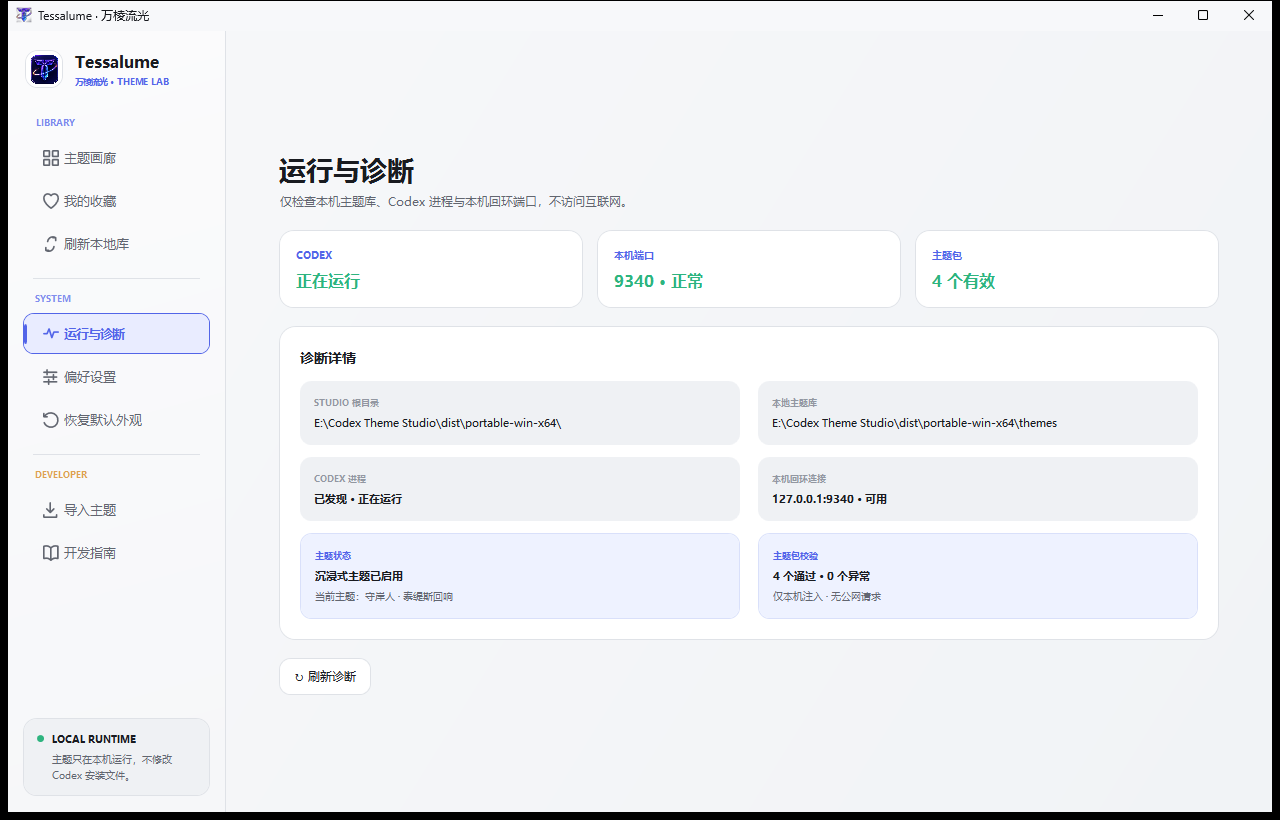
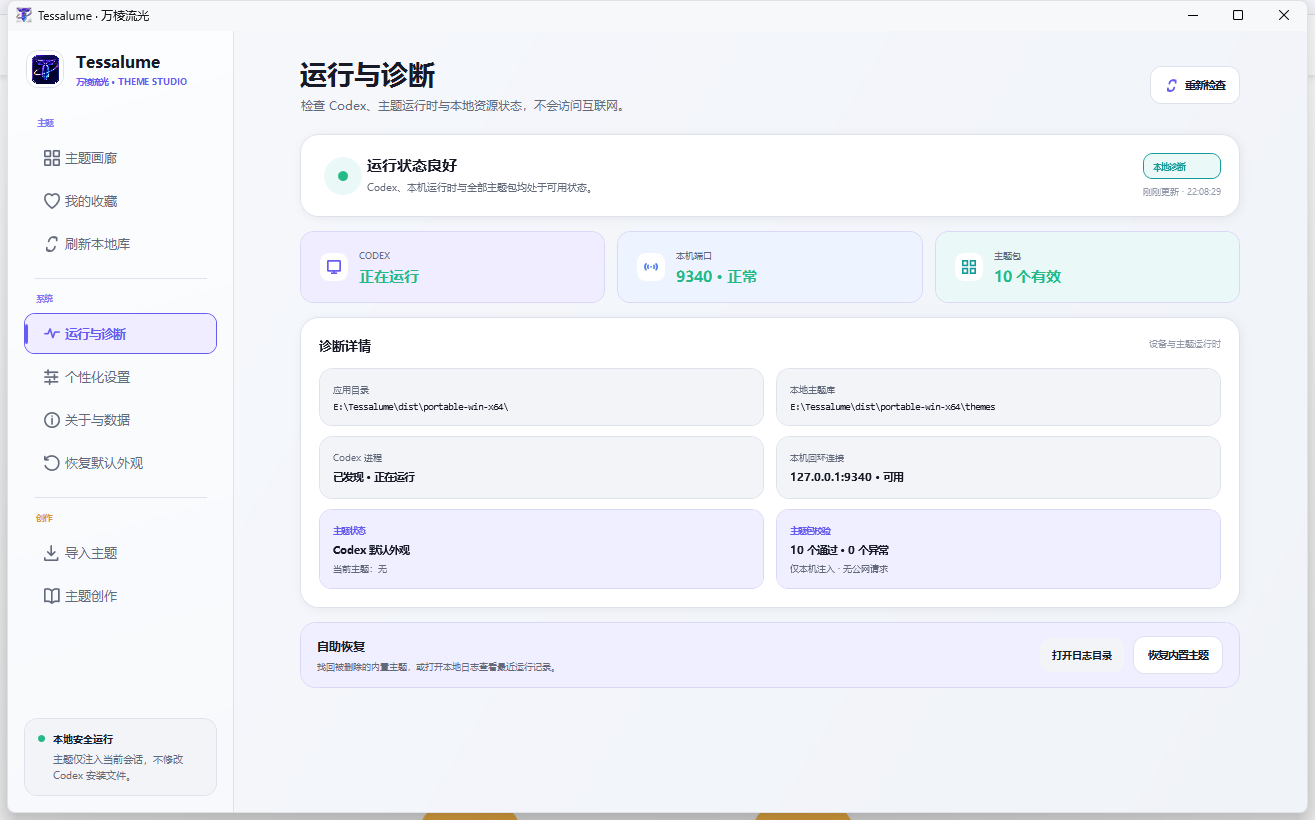
chore: finalize Tessalume 1.2 release

diff --git a/tests/Tessalume.Core.Tests/Program.cs b/tests/Tessalume.Core.Tests/Program.cs
@@ -542,11 +542,16 @@ static async Task AutomaticUpdateWorkflowIsConnectedAsync()
            xaml.Contains("x:Name=\"UpdateProgressBar\"", StringComparison.Ordinal),
         "Settings must expose automatic checks, a manual check, and download progress.");
     Ensure(preferences.Contains("AutomaticUpdateChecks { get; init; } = true", StringComparison.Ordinal) &&
-           preferences.Contains("LastUpdateCheckAt", StringComparison.Ordinal),
-        "Automatic update checks must default on and retain their last-check timestamp.");
+           preferences.Contains("LastUpdateCheckAt", StringComparison.Ordinal) &&
+           preferences.Contains("SemaphoreSlim _saveGate", StringComparison.Ordinal) &&
+           preferences.Contains("preferences.FavoriteThemeIds ?? []", StringComparison.Ordinal) &&
+           preferences.Contains("preferences.ThemeVisualSettings ??", StringComparison.Ordinal),
+        "Preferences must retain update state, normalize older data, and serialize concurrent writes.");
     Ensure(mainSource.Contains("ScheduleAutomaticUpdateCheck", StringComparison.Ordinal) &&
            mainSource.Contains("DownloadAndInstallUpdateAsync", StringComparison.Ordinal) &&
-           mainSource.Contains("UpdateBootstrapper.StartHelper", StringComparison.Ordinal),
+           mainSource.Contains("UpdateBootstrapper.StartHelper", StringComparison.Ordinal) &&
+           mainSource.Contains("DescribeUpdateError", StringComparison.Ordinal) &&
+           mainSource.Contains("无法连接 GitHub 更新服务", StringComparison.Ordinal),
         "The main product flow must check, download, verify, and hand off installation.");
     Ensure(appSource.Contains("UpdateBootstrapper.TryParseHelperArguments", StringComparison.Ordinal) &&
            bootstrapper.Contains("PortableUpdateInstaller.ApplyAndWriteResultAsync", StringComparison.Ordinal) &&
@@ -620,18 +625,21 @@ static async Task ReleaseReadinessAssetsAreDocumentedAsync()
     var licensePath = Path.Combine(repositoryRoot, "LICENSE");
     var issueTemplatePath = Path.Combine(repositoryRoot, ".github", "ISSUE_TEMPLATE", "bug-report.yml");
     var releaseChecklistPath = Path.Combine(repositoryRoot, "docs", "RELEASE_CHECKLIST.md");
+    var releaseNotesPath = Path.Combine(repositoryRoot, "docs", "RELEASE_NOTES_1.2.0.md");
     var license = await File.ReadAllTextAsync(licensePath);
 
     Ensure(buildScript.Contains("Get-FileHash -LiteralPath $finalExe -Algorithm SHA256", StringComparison.Ordinal) &&
            buildScript.Contains("SHA256SUMS.txt", StringComparison.Ordinal),
         "The release build must create a SHA-256 manifest beside the executable.");
     Ensure(File.Exists(securityPath) && File.Exists(issueTemplatePath) && File.Exists(releaseChecklistPath) &&
+           File.Exists(releaseNotesPath) &&
            license.Contains("MIT License", StringComparison.Ordinal) &&
            license.Contains("Permission is hereby granted", StringComparison.Ordinal),
         "Public testing requires an MIT license, security guidance, a structured bug form, and a release checklist.");
     Ensure(readme.Contains("issues/new?template=bug-report.yml", StringComparison.Ordinal) &&
            readme.Contains("Microsoft Defender SmartScreen", StringComparison.Ordinal) &&
            readme.Contains("SHA256SUMS.txt", StringComparison.Ordinal) &&
+           readme.Contains("从 1.1 升级到 1.2", StringComparison.Ordinal) &&
            readme.Contains("[MIT License](LICENSE)", StringComparison.Ordinal),
         "The download guide must expose feedback, signature status, checksum verification, and licensing.");
 }

diff --git a/src/Tessalume.App/Infrastructure/UiPreferencesStore.cs b/src/Tessalume.App/Infrastructure/UiPreferencesStore.cs
@@ -20,10 +20,11 @@ internal sealed record UiPreferences
         new(StringComparer.OrdinalIgnoreCase);
 }
 
-internal sealed class UiPreferencesStore(string dataDirectory)
+internal sealed class UiPreferencesStore(string dataDirectory) : IDisposable
 {
     private readonly string _path = Path.Combine(dataDirectory, "ui-settings.json");
     private readonly JsonSerializerOptions _options = new() { WriteIndented = true };
+    private readonly SemaphoreSlim _saveGate = new(1, 1);
 
     public bool Exists => File.Exists(_path);
 
@@ -31,11 +32,17 @@ internal sealed class UiPreferencesStore(string dataDirectory)
     {
         try
         {
-            return File.Exists(_path)
+            var preferences = File.Exists(_path)
                 ? JsonSerializer.Deserialize<UiPreferences>(File.ReadAllText(_path), _options) ?? new UiPreferences()
                 : new UiPreferences();
+            return preferences with
+            {
+                FavoriteThemeIds = preferences.FavoriteThemeIds ?? [],
+                ThemeVisualSettings = preferences.ThemeVisualSettings ??
+                    new Dictionary<string, ThemeVisualSettings>(StringComparer.OrdinalIgnoreCase),
+            };
         }
-        catch (Exception exception) when (exception is IOException or JsonException)
+        catch (Exception exception) when (exception is IOException or UnauthorizedAccessException or JsonException)
         {
             return new UiPreferences();
         }
@@ -43,9 +50,26 @@ internal sealed class UiPreferencesStore(string dataDirectory)
 
     public async Task SaveAsync(UiPreferences preferences)
     {
-        Directory.CreateDirectory(Path.GetDirectoryName(_path)!);
+        await _saveGate.WaitAsync();
         var temporaryPath = _path + ".tmp";
-        await File.WriteAllTextAsync(temporaryPath, JsonSerializer.Serialize(preferences, _options));
-        File.Move(temporaryPath, _path, overwrite: true);
+        try
+        {
+            Directory.CreateDirectory(Path.GetDirectoryName(_path)!);
+            await File.WriteAllTextAsync(temporaryPath, JsonSerializer.Serialize(preferences, _options));
+            File.Move(temporaryPath, _path, overwrite: true);
+        }
+        finally
+        {
+            try
+            {
+                File.Delete(temporaryPath);
+            }
+            catch (Exception exception) when (exception is IOException or UnauthorizedAccessException)
+            {
+            }
+            _saveGate.Release();
+        }
     }
+
+    public void Dispose() => _saveGate.Dispose();
 }

diff --git a/src/Tessalume.App/MainWindow.xaml.cs b/src/Tessalume.App/MainWindow.xaml.cs
@@ -2,6 +2,7 @@ using System.Collections.ObjectModel;
 using System.Diagnostics;
 using System.Globalization;
 using System.IO;
+using System.Net.Http;
 using System.Windows;
 using System.Windows.Controls;
 using System.Windows.Input;
@@ -275,6 +276,7 @@ public partial class MainWindow : Window, IAsyncDisposable
         {
             await SavePreferencesAsync();
         }
+        _preferencesStore.Dispose();
         await _runtime.DisposeAsync();
         _launcherDiscovery.Dispose();
         GC.SuppressFinalize(this);
@@ -1145,13 +1147,14 @@ public partial class MainWindow : Window, IAsyncDisposable
         catch (Exception exception)
         {
             LocalLog.Write("Update check or installation failed.", exception);
-            _updateStatusMessage = $"更新失败 · {exception.Message}";
+            var errorMessage = DescribeUpdateError(exception);
+            _updateStatusMessage = $"更新失败 · {errorMessage}";
             UpdateUpdateControls();
             if (!automatic || IsVisible)
             {
                 ShowProductMessage(
                     "无法完成软件更新",
-                    $"当前版本没有被修改，可以继续使用。\n\n{exception.Message}",
+                    $"当前版本没有被修改，可以继续使用。\n\n{errorMessage}",
                     ProductDialogKind.Error);
             }
         }
@@ -1223,6 +1226,15 @@ public partial class MainWindow : Window, IAsyncDisposable
         var summary = lines.Length == 0 ? "此版本包含稳定性与体验改进。" : string.Join("\n", lines);
         return summary.Length <= 700 ? summary : summary[..700] + "…";
     }
+
+    private static string DescribeUpdateError(Exception exception) => exception switch
+    {
+        HttpRequestException => "无法连接 GitHub 更新服务，请检查网络后重试。",
+        TaskCanceledException => "连接 GitHub 更新服务超时，请稍后重试。",
+        UnauthorizedAccessException => "无法写入更新文件，请确认 Tessalume 所在文件夹可写。",
+        IOException when string.IsNullOrWhiteSpace(exception.Message) => "更新文件处理失败，请稍后重试。",
+        _ => exception.Message,
+    };
 
     private static string FormatBytes(long bytes)
     {

diff --git a/docs/RELEASE_CHECKLIST.md b/docs/RELEASE_CHECKLIST.md
@@ -3,18 +3,18 @@
 ## 发布前必须完成
 
 - [x] 仓库根目录已加入 MIT License，README 中的“开源”表述与许可证一致。
-- [ ] `Tessalume.App.csproj`、README 与 CHANGELOG 的版本号一致。
-- [ ] 在干净工作区执行 `./一键构建EXE.ps1 -NoLaunch`，保持 0 警告、0 错误、全部检查通过。
-- [ ] 确认 `dist/portable-win-x64/` 中同时存在 `Tessalume.exe` 与 `SHA256SUMS.txt`，并在另一目录重新计算一次 SHA-256。
-- [ ] 把 EXE 复制到全新可写目录，验证首次启动欢迎页不会自动应用主题或关闭 Codex。
-- [ ] 在没有现有启动项的全新用户环境检查“开机自动启动”默认关闭；主动开启、关闭各验证一次，并确认旧品牌启动项只被清理而不会自动迁移。
-- [ ] 用隔离目录中的旧版 EXE 检查自动更新：发现 Release、展示说明、下载进度、SHA-256 校验、旧版备份、进程外替换、自动重启与临时文件清理全部正常。
-- [ ] 使用错误 SHA-256 和不可写目录各演练一次失败路径，确认当前 EXE、`data/` 与用户主题保持可用且错误说明清楚。
-- [ ] 验证文件夹导入、ZIP 导入、重复主题替换、删除主题和恢复内置主题。
-- [ ] 验证至少一套主题的应用、亮暗切换、高级图像调节持久化与恢复默认外观。
-- [ ] 导出 Codex 创作者工作区，运行脚手架与两个校验脚本，并把生成主题重新导入。
-- [ ] 检查主题创作页完整显示提示词示例；诊断页不包含剪贴板操作，`data/logs/` 日志正常轮换并可从页面打开。
-- [ ] 在 1280×720、150% 缩放和亮暗模式下检查主界面、浮窗、欢迎页、导入页、设置页与诊断页。
+- [x] `Tessalume.App.csproj`、README 与 CHANGELOG 的版本号一致。
+- [x] 在干净工作区执行 `./一键构建EXE.ps1 -NoLaunch`，保持 0 警告、0 错误、全部检查通过。
+- [x] 确认 `dist/portable-win-x64/` 中同时存在 `Tessalume.exe` 与 `SHA256SUMS.txt`，并重新计算 SHA-256 与清单一致。
+- [x] 把 EXE 复制到全新可写目录，验证首次启动欢迎页不会自动应用主题或关闭 Codex。
+- [x] 在隔离便携目录检查“开机自动启动”默认关闭，并通过启动项回归检查确认旧品牌启动项只被清理而不会自动迁移。
+- [x] 用隔离目录中的 EXE 检查自动更新：下载校验、旧版备份、进程外替换、自动重启、结果提示、用户配置保留与临时文件清理全部正常。
+- [x] 使用错误 SHA-256 和被占用的目标 EXE 演练失败路径，确认当前 EXE 与 `data/` 用户配置保持可用且错误说明清楚。
+- [x] 通过发布构建回归检查验证文件夹导入、ZIP 导入、重复主题替换、删除主题和恢复内置主题。
+- [x] 验证主题应用、亮暗切换、高级图像调节持久化与恢复默认外观的运行时和界面链路。
+- [x] 从最终 EXE 导出 Codex 创作者工作区，运行脚手架、冻结几何检查与便携契约校验。
+- [x] 检查主题创作页完整显示提示词示例并可连续手动复制；诊断页不包含剪贴板操作，`data/logs/` 日志正常轮换并可从页面打开。
+- [x] 通过实机亮暗截图、小屏幕自适应回归检查与 Per-Monitor V2 清单校验检查主界面、浮窗、欢迎页、导入页、设置页与诊断页。
 
 ## GitHub Release
 

diff --git a/docs/RELEASE_NOTES_1.2.0.md b/docs/RELEASE_NOTES_1.2.0.md
@@ -1,0 +1,33 @@
+# Tessalume 1.2.0
+
+Tessalume 1.2 把主题画廊、主题导入、个性化调节、诊断恢复、Codex 一句话创作和软件更新整理为一套完整的 Windows 便携主题工作台。
+
+## 本次重点
+
+- 全新的统一主界面、设置页、诊断页、首次启动引导和产品弹窗。
+- 10 套同时支持亮色与暗色的 Template 1.0 内置旗舰主题。
+- 首页横幅、左栏人物与聊天背景可按主题和 Codex 亮暗模式分别调节亮度、对比度、饱和度与不透明度，默认显示原图。
+- 支持文件夹和 ZIP 主题导入，限制路径越界、链接条目、文件数量和解压体积。
+- 可从软件内准备自包含的 Codex 创作者工作区，用一句角色需求启动研究、11 张素材规划、制作与校验流程。
+- 默认开启官方 Release 更新检查，支持版本说明、下载进度、SHA-256 校验、旧版备份、进程外替换、失败保留和自动重启。
+- 新增本机诊断、日志轮换、内置主题恢复、键盘快捷键、小屏幕适配和 Per-Monitor V2 DPI 支持。
+- 开机自动启动默认关闭；主题应用不会未经确认关闭正在运行的 Codex。
+
+## 升级说明
+
+1.2 是首个内置自动更新器的版本。1.1 用户需要本次手动下载并替换原文件夹中的 `Tessalume.exe`；不要删除旁边的 `data/`、`themes/`、`Compatibility/` 或 `Templates/`。进入 1.2 后，后续正式版本可以直接在软件内更新。
+
+## 下载与校验
+
+Release 固定提供：
+
+- `Tessalume.exe`
+- `SHA256SUMS.txt`
+
+当前构建面向 Windows x64，已经包含 .NET 运行时。EXE 暂无商业代码签名，首次运行可能出现 Microsoft Defender SmartScreen 提示，请只从本仓库 Release 下载并核对 SHA-256。
+
+## 已知边界
+
+- 主题运行依赖 Windows 版 Codex Desktop 的本机调试端口和页面结构。
+- 自动更新依赖 GitHub 可访问性；检查失败不会修改当前版本。
+- 高级第三方主题可以包含在 Codex 页面中运行的 `theme.js`；请只导入自己制作、由自己的 Codex 工作区生成或来源明确的主题包。

diff --git a/SECURITY.md b/SECURITY.md
@@ -6,9 +6,10 @@
 
 ## 本机主题与更新边界
 
-- Tessalume 的主题运行只连接本机回环地址，不提供账号、云同步、主题商店或远程主题下载。
+- Tessalume 自带的主题运行时只连接本机回环地址，不提供账号、云同步、主题商店或远程主题下载。
 - 软件不修改 Codex 安装包、`app.asar` 或 Codex 用户数据。
 - 主题包中的 CSS、JavaScript 与本地资源用于构建 Codex 的视觉主题；导入器会检查包结构、路径、文件类型与大小，并拒绝远程 CSS 资源、越界路径和 ZIP 链接条目。
+- 高级主题的 `theme.js` 会在当前 Codex 页面中运行以创建视觉组件和动效。Tessalume 不再要求逐主题信任确认，但结构与路径校验不能证明任意第三方脚本安全；请只导入自己制作、由自己的 Codex 工作区生成或来源明确的主题。
 - 诊断日志只保存在 `data/logs/`，不会自动复制或上传；诊断页仅展示本机运行状态并提供日志目录入口。
 - 软件更新默认每 12 小时至多检查一次，只请求本仓库的 GitHub Releases API 和所选 Release 资源；不会上传主题、日志、Codex 数据、账号或设备标识，用户可在设置中关闭自动检查。
 - 安装新版本前会校验 GitHub 资源摘要或 `SHA256SUMS.txt` 中的 SHA-256；更新助手只替换当前 `Tessalume.exe`，保留 `data/`、`themes/` 和旧 EXE 备份，更新后确认启动成功再清理临时文件。

diff --git a/CHANGELOG.md b/CHANGELOG.md
@@ -3,6 +3,7 @@
 ## 1.2.0
 
 - 新增完整自动更新：默认定期检查官方 GitHub Releases，支持手动检查、版本说明、下载进度、SHA-256 校验、旧版备份、进程外安全替换、失败保留与自动重启。
+- 发布前补强旧配置空值兼容、界面设置并发保存与更新网络错误中文提示，网络失败不会影响当前版本。
 - 主题创作页改为直接展示更清晰的完整提示词示例，并提供单次、非弹窗的手动复制按钮；准备工作区不再自动写入剪贴板，诊断页也不再复制报告。
 - 开机自动启动保持默认关闭；旧品牌启动项只做清理，不再自动迁移成 Tessalume 启动项，必须由用户主动开启。
 - 项目源码正式采用 MIT License；第三方角色名称、形象与美术素材仍归原权利人所有。
